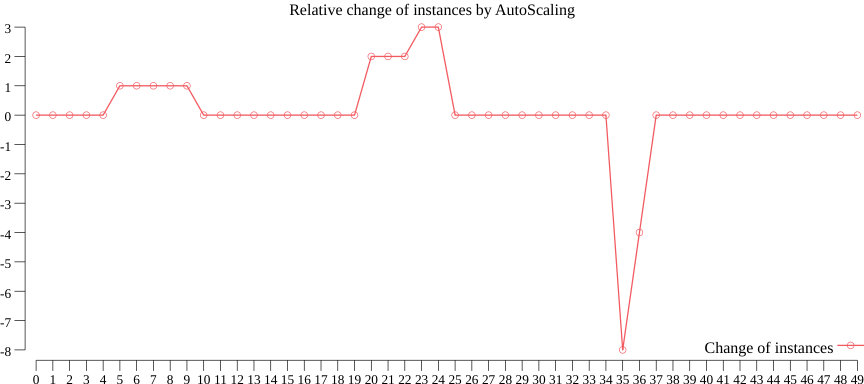
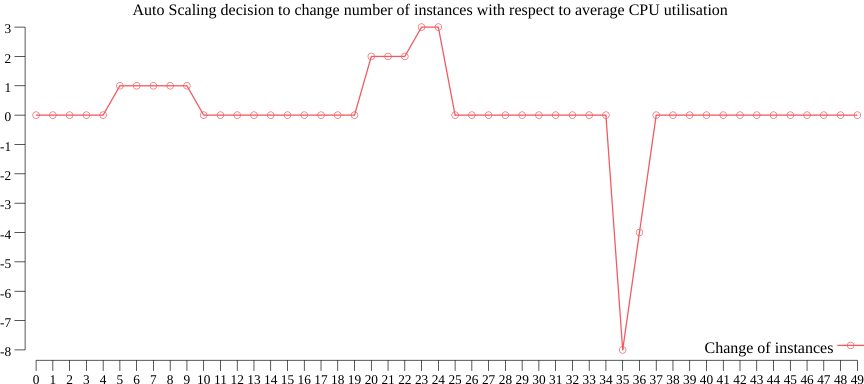
Improve naming of plot

Changed region(s): [[0.1562, 0.0, 0.8438, 0.0625]]

diff --git a/example/autoscaling_by_test.go b/example/autoscaling_by_test.go
@@ -175,7 +175,7 @@ func TestAutoScalingVisualize(t *testing.T) {
 	pCPU.X.Tick.Marker = gonumutil.NewConstantNumTicker(1)
 	pCPU.Y.Tick.Marker = gonumutil.NewConstantNumTicker(5)
 
-	pInst.Title.Text = "Relative change of instances by AutoScaling"
+	pInst.Title.Text = "Auto Scaling decision to change number of instances with respect to average CPU utilisation "
 	pInst.X.Tick.Marker = gonumutil.NewConstantNumTicker(1)
 	pInst.Y.Tick.Marker = gonumutil.NewConstantNumTicker(1)
 
